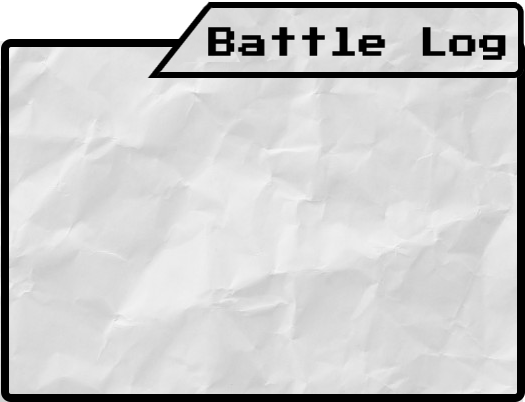
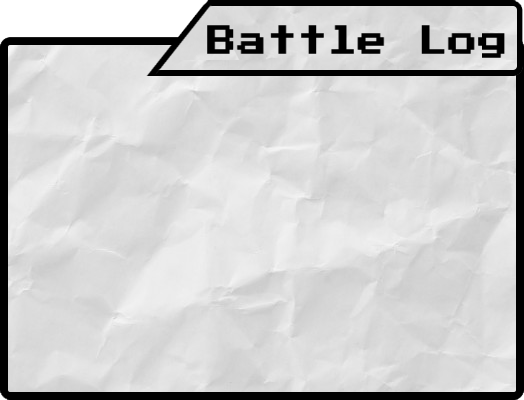
Comic Book UI
First version of the new "Comic Book" UI style. Adds new backgrounds to
UI elements, simplifies Options Menu and Battle Log animations, adds two
new fonts, and changes the Character Select buttons.

Changed region(s): [[0.0, 0.0, 1.0, 1.0], [0.9771, 0.99, 1.0, 1.0], [0.7939, 0.06, 0.8244, 0.09]]

diff --git a/style/style.css b/style/style.css
@@ -1,7 +1,9 @@
-body { width:1920px; height:1080px;font-size:0;font-family:Arial,Helvetica,Sans;background-color:#000000; }
+@import url('https://fonts.googleapis.com/css?family=Bangers|Press+Start+2P');
+
+body { width:1920px; height:1080px; font-size: 0; font-family: Arial,Helvetica,Sans; background-color:#000000; }
 body, div, button { margin:0;padding:0; }
 
-#gamePlay { position:relative;width:100%;height:100%;background:#1A1A2F }
+#gamePlay { position:relative;width:100%;height:100%;background:#1A1A2F; overflow: hidden; }
 
 canvas { height:100%;width:100%;background:#33CC33 }
 
@@ -82,7 +84,7 @@ canvas { height:100%;width:100%;background:#33CC33 }
 	text-align:center;
 	font-size:40pt;
 	color:#ffffff;
-	font-family:'Press Start 2P';
+	font-family: 'Press Start 2P', cursive;
 	text-transform:uppercase;
 	text-decoration:blink;
 	animation-name: tostart;
@@ -90,58 +92,181 @@ canvas { height:100%;width:100%;background:#33CC33 }
 	animation-iteration-count: infinite;
 }
 
-#characterSelect
-{
-	position:absolute;
-	background-color:rgba(0,0,0,0.7);
-	border-radius:50px;
-	padding:50px;
-	top:14%;left:14%;
-	height:calc(72% - 100px);width:calc(72% - 100px);
+#characterSelect {
+    position: absolute;
+    top: 14%;
+    left: 14%;
+    
+    width: calc(72% - 100px);
+    height: calc(72% - 100px);
+    padding: 50px;
+    
+    background: url(../images/menu_assets/BookMenu.png) rgba(0,0,0,0.7) center center no-repeat;
+    background-size: cover;
+    border-radius: 50px;
     transition: transform 0.5s;
 }
 
-.player { display:inline-block;width:50%;height:5%;color:#ffffff;font-size:22pt;text-transform:uppercase; }
-.player.active { font-weight:bold }
-.player:nth-child(1) { color:#33CCFF;text-align:left }
-.player:nth-child(2) { color:#999966;text-align:right }
+#characterSelect .innerDiv {
+    padding: 0px 0px 50px;
+}
 
-figure { height:30%;width:22%;display:inline-block;margin:0.5% 1.5%;padding:0;border-radius:5%; }
-figure img { height:85%;width:95%;margin:0;padding:2% 2% 0 2%;border-radius:5%; }
-figcaption { color:#ffffff;text-align:center;font-size:large;margin:0;padding:0 2% 2% 2%;height:15%;width:100%; }
+.player { display:inline-block; width:50%; height:5%; color:#222; font-size:22pt; text-transform:uppercase; text-align: center; }
+.player.active { font-weight:bold }
+
+figure {
+    display: inline-block;
+    width: 18%;
+    height: 25%;
+    
+    margin: 0 3.5%;
+    padding: 0 0 15px;
+    
+    border-radius: 5%;
+}
+
+figure img {
+    width: 95%;
+    height: 85%;
+    
+    margin: 0;
+    padding: 2% 2% 0 2%;
+    
+    border-radius: 5%;
+}
+
+figcaption {
+    width: 100%;
+    height: 15%;
+    
+    margin: 0;
+    padding: 0 2% 2% 2%;
+    
+    font-family: "Bangers", cursive;
+    font-size: 20pt;
+    
+    color: #222;
+    text-align: center;
+}
 
 figure:hover { background-color:#66CC33; }
-figure.selected_player1, figure.selected_player1:hover { background-color:#33CCFF }
-figure.selected_player2, figure.selected_player2:hover { background-color:#999966 }
+figure.selected_player1, figure.selected_player1:hover { background-color:#47DDD9 }
+figure.selected_player2, figure.selected_player2:hover { background-color:#E6504D }
 figure.selected_player1 figcaption, figure.selected_player2 figcaption { color:#ffffff }
 figure.selected_player1 figcaption:before, figure.selected_player2 figcaption:before { content:'\2713 '; }
 
 .dialog { position:absolute;background-color:rgba(0,0,0,0.7);border-radius:10%;padding:3%; transition: transform 0.5s; }
-#dialog1 { top:10%;left:10%;height:calc(80% - 100px);width:calc(80% - 100px); }
-#dialog2 { bottom:0;right:0;height:calc(35% - 100px);width:calc(30% - 100px);padding:1%; }
-#dialog3 { top:0;left:2%;height:calc(35% - 100px);width:calc(20% - 100px);padding:1%; }
 
-#topPanel { height:20%;width:100%;background:red; }
+/* Battle Menu */
+#dialog1 {
+    top: 10%;
+    left: 10%;
+    
+    height: calc(80% - 100px);
+    width: calc(80% - 100px);
+    padding: 1% 3% 3%;
+    
+    font-family: 'Press Start 2P', cursive;
+    
+    background: url(../images/menu_assets/BookMenu.png) bottom center no-repeat;
+    background-size: cover;
+}
+
+/* Battle Log */
+#dialog2 {
+    bottom: 0;
+    right: 0;
+    
+    height: calc(55% - 90px);
+    width: calc(40% - 100px);
+    padding: 1%;
+    border-radius: 0px;
+    
+    font-family: 'Press Start 2P', cursive;
+    font-size: 20pt;
+    
+    background: url(../images/menu_assets/BattleLogUp.png) bottom center no-repeat;
+    background-size: cover;
+    
+    transition: bottom 0.5s;
+}
+
+#dialog2.minimize3 {
+    bottom: -41%;
+}
+
+#battleLog {
+    height: 400px;
+    padding-top: 20px;
+}
+
+#battleLog div {
+    display: block;
+    
+    width: 98%;
+    height: 100%;
+    overflow-y: auto;
+    
+    margin: 2px;
+    padding: 2px;
+    
+    color: #222;
+    font-family: "Press Start 2P", monospace;
+    font-size: 12pt;
+    white-space: pre-line;
+}
+
+/* Options Menu */
+#dialog3 {
+    top: 0;
+    left: 2%;
+    
+    height: calc(35% + 60px);
+    width: calc(20% - 100px);
+    padding: 1%;
+    border-radius: 0px;
+    
+    font-family: 'Press Start 2P', cursive;
+    font-size: 20pt;
+    
+    background: url(../images/menu_assets/BookmarkDown.png) bottom center no-repeat;
+    background-size: cover;
+    
+    transition: top 0.5s;
+}
+
+#dialog3.minimize3 {
+    background-image: url(../images/menu_assets/BookmarkUp.png);
+    top: -30%;
+}
+
+#dialog2 a, #dialog3 a { background: none; padding: 0% 2% 10%; font-size: 20pt; }
+#dialog3 a+a { padding: 10% 2% }
+#dialog3 a.expandLink { height: 100px; width: 130px; padding: 100px 0px 0px; margin: auto; }
+#dialog3 a.audio-off { background-image: url('../images/muted.png'); background-repeat: no-repeat; background-position: center right; }
+
+#topPanel { height:20%;width:100%; }
 #topPanel img { height:100%;width:20%; }
 #topPanel div { height:100%;width:30%;display:inline-block;text-align:center;vertical-align:top;font-size:14pt; }
-#timeout { display:block;font-size:5em;margin:5% auto;font-weight:bold;background-color:purple; }
+#timeout { display:block;font-size:4em;margin:5% auto;font-weight:bold; }
 #topPanel button { margin:5% auto; }
 
 #battleMenu { height:calc(80% - 40px);width:calc(100% - 40px);font-size:14pt;padding:20px;position:relative }
 .characterMenu, .skillOverlay, .characterReady { position:absolute;top:0;height:100%;width:50%; }
-.active1, #skillOverlay1, #characterReady1 { left:0;background-color:blue; }
-.active2, #skillOverlay2, #characterReady2 { left:50%;background-color:aquamarine; }
+.skillOverlay { background: #333; border-radius: 20px; }
+.active1, #skillOverlay1, #characterReady1 { left:0; }
+.active2, #skillOverlay2, #characterReady2 { left:50%; }
 .inactive { visibility:hidden; }
 .hide1 { transform: rotateY(90deg); }
 .hide2 { transform: translateY(-1000px); }
 
 .abilities { padding:20px;text-align:center; }
 
-.skillDesc { font-size:1.5em;margin:10px 20px 5px 20px;padding:10px;min-height:22%;background-color:#ffffff;border-radius:10px; }
+.skillDesc { font-size:1.5em;margin:20px 20px 5px 20px;padding:10px;min-height:22%;background-color:#ffffff;border-radius:10px;font-family:Arial,Helvetica,sans-serif; }
 .skillDesc strong { text-transform:uppercase; }
 
-.characterReady { background-size:100%;background-repeat:no-repeat;filter: grayscale(80%); }
-.characterAction { margin:20px;font-size:3em;font-weight:bold;text-align:center;line-height:1.6em; }
+.characterReady { background-color:#333;background-size:100%;background-repeat:no-repeat;filter: grayscale(80%); border-radius: 20px; }
+.characterAction { margin:20px;font-size:3em;font-weight:bold;text-align:center;line-height:1.6em;text-shadow: 2px 2px 0px #FFF; }
 
 img.inactive-img
 {
@@ -169,41 +294,15 @@ button:active { box-shadow: 0px 0px 0px 2px #FFD700; }
 button.selected { color:gold; }
 button.selected:before { content:'\2713 ';color:gold; }
 
-.smBtn { height:1.2em;width:auto;font-size:0.5em;font-size:0.8em;padding:3%;background-color:#0033FF;line-height:0.3em; }
+.smBtn { height:2.5em;width:auto;font-family: "Bangers", cursive;font-size:1.2em;padding:4% 8%;background-color:#0033FF;line-height:0.3em; }
 
 textarea { font-size:12pt;padding:2px;height:auto;background-color:#000000;color:yellow;font-family:monospace; }
-
-#battleLog div
-{
-	display:block;
-
-	font-family:Monospace;
-	font-size:10pt;
-	
-	white-space:pre-line;
-	padding:2px;margin:2px;
-	width:98%;height:15em;
-	overflow-y:auto;
-	
-	background-color:#000000;
-	color:yellow;
-}
 
 .minimize { position:absolute;height:5% !important;overflow:hidden; }
 .minimize div { display: none; }
 
 #dialog2.minimize2 { height: auto; }
 #dialog3.minimize2 { height: auto; }
-
-#dialog2 #battleLog 
-{
-	height: 205px;
-	transform: scaleY(1);
-	transition: transform 0.5s,
-	height 1s;
-}
-
-#dialog2.minimize2 #battleLog { transform: scaleY(0); height: 0px; }
 
 #dialog3 #options 
 {
@@ -217,7 +316,6 @@ textarea { font-size:12pt;padding:2px;height:auto;background-color:#000000;color
 
 a { display:block;font-size:28pt;margin:0;padding:0;background:red;text-decoration:none;padding:2%; }
 nav a { padding:4% 2%;margin:2% 0; }
-a.audio-off { background-image:url('../images/muted.png');background-repeat:no-repeat;background-position:center right; }
 
 #imgViewer, .reactView
 {

diff --git a/gameplayDemo_v16.html b/gameplayDemo_v16.html
@@ -67,8 +67,8 @@
             
             <div id="characterSelect" class="hide2">
                 <div class="innerDiv">
-                    <div class="player active">Player 1: Pick 3 <button class="smBtn" onclick="CharacterSelection.commit(this)" disabled="disabled">Commit</button></div>
-                    <div class="player"><button class="smBtn" onclick="CharacterSelection.commit(this)" disabled="disabled">Commit</button> Player 2: Pick 3</div>
+                    <div class="player 1 active"><button class="smBtn" onclick="CharacterSelection.commit(this)" disabled="disabled">P1: Pick 3</button></div>
+                    <div class="player 2"><button class="smBtn" onclick="CharacterSelection.commit(this)" disabled="disabled">P2: Pick 3</button></div>
                 </div>
             </div>
             
@@ -142,8 +142,7 @@
                 <span></span>
             </div>
             
-            <div id="dialog3" class="dialog minimize2">
-                <a class="expandLink" onclick="expand2(this)">&lArr;</a>
+            <div id="dialog3" class="dialog minimize3">
                 <div id="options">
                     <div>
                         <nav>
@@ -153,10 +152,11 @@
                         </nav>
                     </div>
                 </div>
+                <a class="expandLink" onclick="expand3(this)"></a>
             </div>
             
-            <div id="dialog2" class="dialog minimize2">
-                <a class="expandLink" onclick="expand2(this)">Battle Log</a>
+            <div id="dialog2" class="dialog minimize3">
+                <a class="expandLink" onclick="expand3(this)"></a>
                 <div id="battleLog">
 					<div></div>
                 </div>

diff --git a/scripts/Game.js b/scripts/Game.js
@@ -561,6 +561,11 @@ function expand2(lnk)
 	lnk.parentElement.classList.toggle("minimize2");
 }
 
+function expand3(lnk)
+{
+	lnk.parentElement.classList.toggle("minimize3");
+}
+
 document.onkeydown = function(e)
 {
 	var keycode = (window.event ? window.event.keyCode : e.which);
